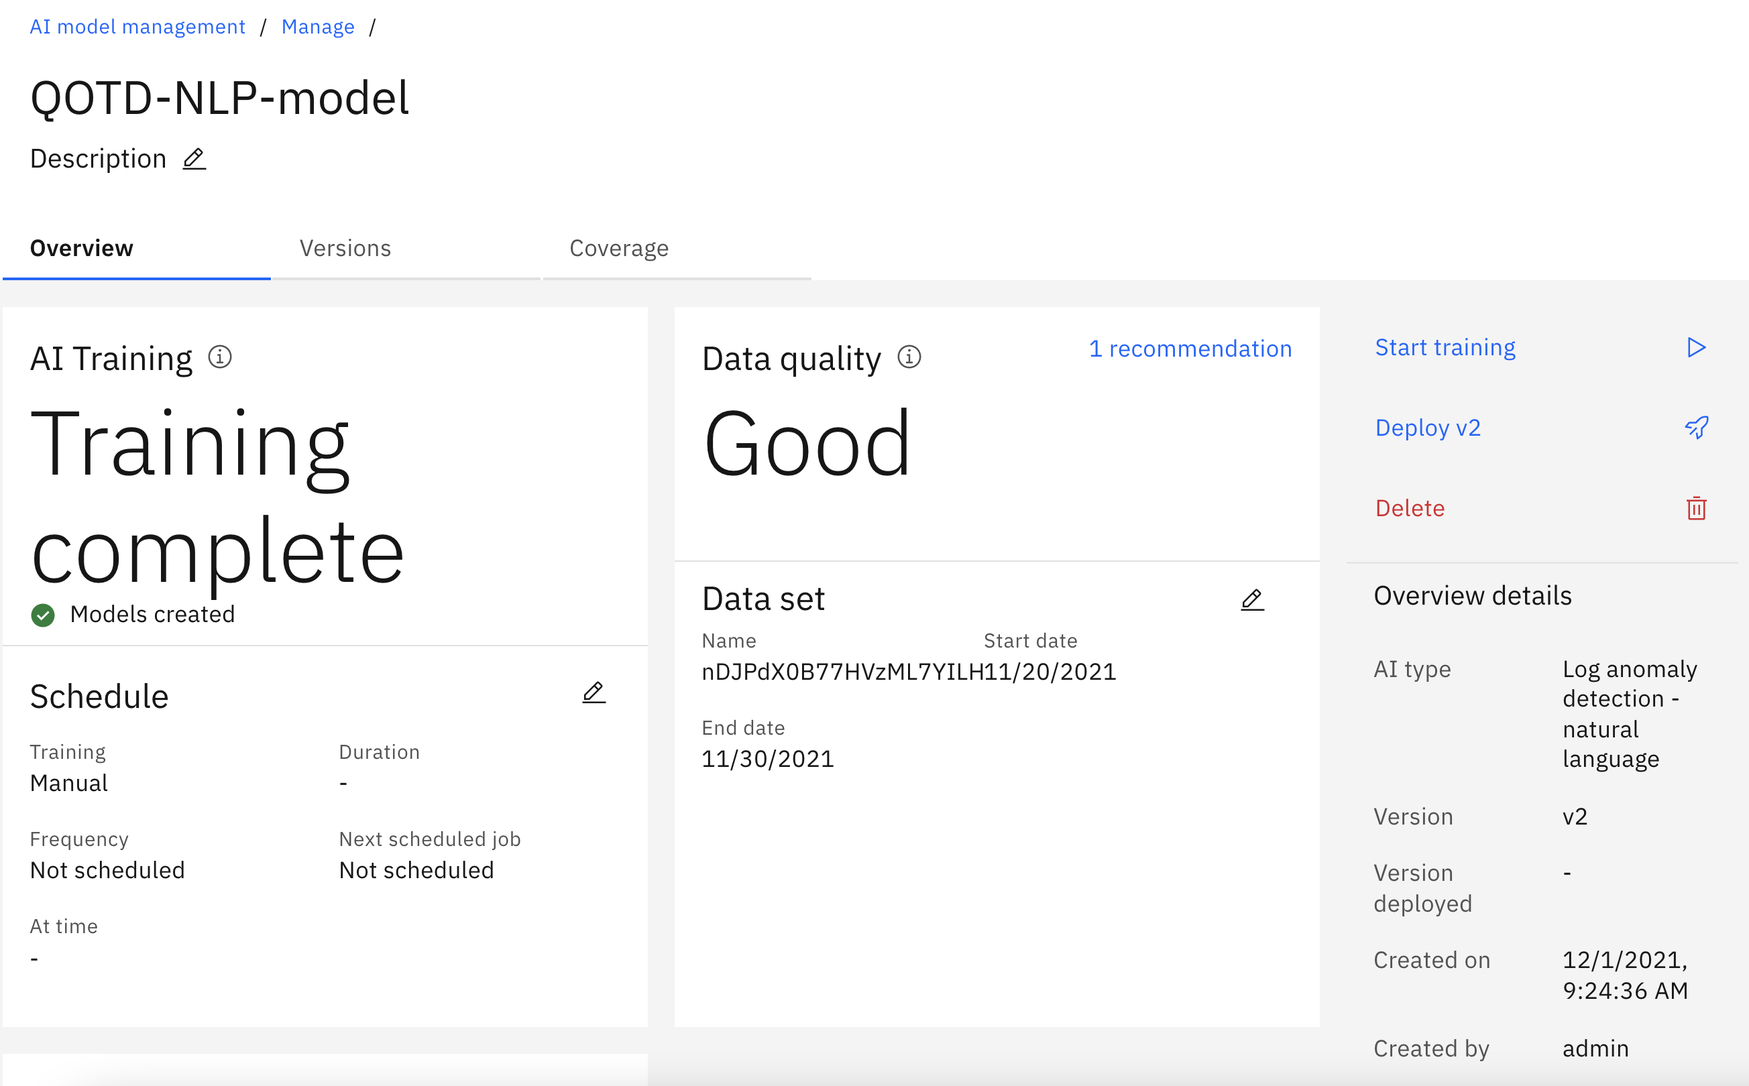
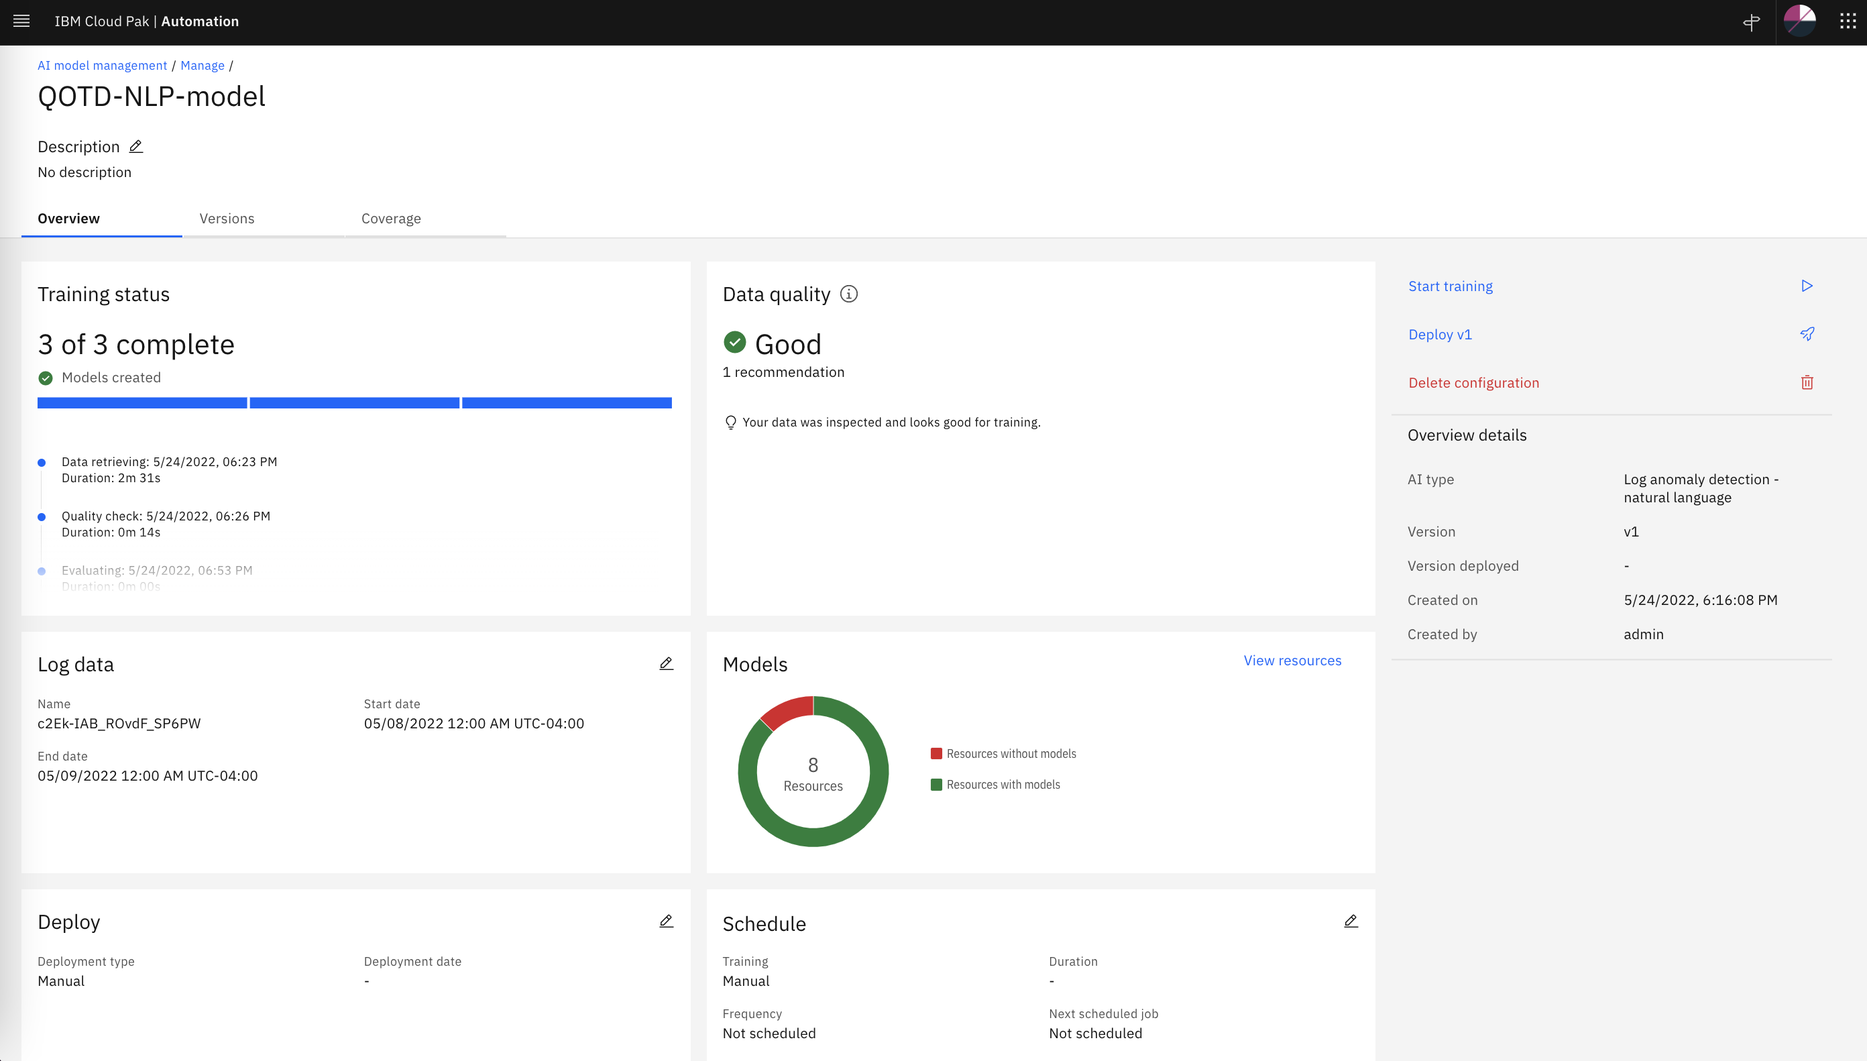
Deployed 1edadde with MkDocs version: 1.3.0

diff --git a/integration/index.html b/integration/index.html
@@ -91,11 +91,11 @@
               
                 <h1 id="configuring-data-sources">Configuring Data Sources</h1>
 <h2 id="connecting-to-the-cp4waiops-console">Connecting to the CP4WAIOps console</h2>
-<p>Lets start by connecting to the CP4WAIOps console. Get the URL and login credentials from the <em>Lab Parameters Table</em>. You will see the console home page as shown below. </p>
+<p>Lets start by connecting to the CP4WAIOps console. Use the URL and login credentials given by your Lab coordinator. You will see the console home page as shown below. </p>
 <p><img alt="Home Page" src="../images/home-page.png" title="Home Page" /></p>
 <hr />
 <h2 id="configure-the-efk-integration">Configure the EFK Integration</h2>
-<p>EFK is a variant of ELK (Elasticsearch, Logstash, and Kibana). EFK is a suite of tools combining Elasticsearch, Fluentd, and Kibana that functions as a log aggregation tool. To simplify the installation and configuration effort for installing the different components of the EFK stack on OpenShift, we leverage the <code>OpenShift Logging</code> library from OpenShift. OpenShift customers that prefer not to spend part of their budget on a commercial log aggregator such as Humio, Splunk, or LogDNA, more than likely use the <code>OpenShift Logging</code> library.</p>
+<p>EFK is a variant of ELK (Elasticsearch, Logstash, and Kibana). EFK is a suite of tools combining Elasticsearch, Fluentd, and Kibana that functions as a log aggregation tool. Note that Kibana is a data visualization and exploration tool used for log and time-series analytics, application monitoring, and operational intelligence use cases. Now, to simplify the installation and configuration effort for installing the different components of the EFK stack on OpenShift, we leverage the <code>OpenShift Logging</code> library from OpenShift. OpenShift customers that prefer not to spend part of their budget on a commercial log aggregator such as Humio, Splunk, or LogDNA, more than likely use the <code>OpenShift Logging</code> library. </p>
 <p>To have AI Manager collect logs from the EFK installation that leverages the <code>OpenShift Logging</code> library, you need to define an EFK integration. The lab will provide the values that you should use for defining the EFK integration.</p>
 <p>From the Home page, under <code>Overview</code> clik on <code>Data and tool connections</code> on the left side of the page. Click on the <code>Add connection</code> button on the top right. On the ELK card, select <code>Add connection</code>. Take a moment to read the connection overview on the right side slider, then click on <code>Connect</code>, as shown in the following screen.</p>
 <p><img alt="elk integration 1" src="../images/elk-integration-1.png" title="ELK integration 1" /></p>
@@ -126,7 +126,7 @@
 <p><code>Filters</code>: Don't change it.</p>
 </li>
 <li>
-<p><code>Time zone</code>: Don't change it.</p>
+<p><code>Time zone</code>: Select <code>GMT-4</code>.</p>
 </li>
 <li>
 <p><code>Kibana port</code>: Type <code>443</code>.</p>
@@ -176,14 +176,14 @@
 <p><img alt="elk integration 4" src="../images/elk-integration-4.png" title="ELK integration 4" /></p>
 <p><img alt="elk integration 5" src="../images/elk-integration-5.png" title="ELK integration 5" /></p>
 <p><img alt="elk integration 6" src="../images/elk-integration-6.png" title="ELK integration 6" /></p>
-<p>Finally, click on the <code>Done</code> button.  After some time, you will see the message <code>Connection completed. IBM Cloud Pak for Watson AIOps has successfully processed your request</code> and the ELK integration page will show the Data Flow Status as <code>Running</code> as shown below:</p>
+<p>Finally, click on the <code>Done</code> button.  After some time, you will see the message <code>Connection completed. IBM Cloud Pak for Watson AIOps has successfully processed your request</code>.  Click on the <code>ELK</code> Connection type and then the ELK integration page will show the <code>EFK for QOTD</code> integration you just defined showing the Data Flow Status as <code>Running</code> as shown below:</p>
 <p><img alt="elk integration 7" src="../images/elk-integration-7.png" title="ELK integration 7" /></p>
 <p>After around 15 minutes, it will stop pulling the data and the Data Flow Status will change to <code>Finished</code> as shown below. <strong>Don't wait. Move to the next step in the meantime.</strong></p>
 <p><img alt="elk integration 8" src="../images/elk-integration-8.png" title="ELK integration 8" /></p>
 <hr />
 <h2 id="configure-the-instana-integration">Configure the Instana Integration</h2>
-<p>The CP4WAIOps will consume topology information from Instana therefore we will configure the integration between the CP4WAIOps and Instana.</p>
-<p>Lets verify first that there is no topology data in the system. From the Home page, clik on <code>Resource management</code> under <code>Overview</code> on the left side of the page. On the Resource management page, make sure there are no Applications, Resource groups nor Resources defined, as shown below</p>
+<p>The CP4WAIOps will consume topology information from Instana therefore we will configure this integration.</p>
+<p>Lets verify first that there is no topology data in the system. From the navigator menu, go to the Home page again, clik on <code>Resource management</code> under <code>Overview</code> on the left side of the page. On the Resource management page, make sure there are no Applications, Resource groups nor Resources defined, as shown below</p>
 <p><img alt="instana integration 0" src="../images/instana-0.png" title="Instana integration 0" /></p>
 <p>Now, lets define the Instana integration. From the Home page, clik on <code>Data and tool connections</code> under <code>Overview</code> on the left side of the page. Click on the <code>Add connection</code> button on the top right. On the Instana card, select <code>Add connection</code>. Take a moment to read the connection overview on the right side slider, then click on <code>Connect</code>, as shown in the following screen.</p>
 <p><img alt="instana integration 1" src="../images/instana-1.png" title="Instana integration 1" /></p>
@@ -193,7 +193,7 @@
 <p><code>Name</code>: The display name of your connection, for example <code>Instana connection</code>.</p>
 </li>
 <li>
-<p><code>Description</code>: An optional description for the connection.</p>
+<p><code>Description</code>: An optional description for the connection. Leave it blank.</p>
 </li>
 <li>
 <p><code>Endpoint</code>: Get the URL for the Instana Endpoint from the <em>Lab Parameters Table</em>.</p>
@@ -212,7 +212,7 @@
 <p><code>Enable data flow</code>: Set this toggle button to on (green).</p>
 </li>
 <li>
-<p><code>Time window</code> (seconds): Leave as it is. This is the windowSize within the Instana API.</p>
+<p><code>Time window</code> (seconds): Leave as it is. This is the windowSize parameter within the Instana API.</p>
 </li>
 <li>
 <p><code>Connection Intervals</code> (seconds): Leave as it is. This is how frequently to run the job to collect topology.</p>
@@ -238,12 +238,12 @@
 <p>Now, lets verify that CP4WAIOps actually received topology data.</p>
 <p>From the Home page, clik on Resource management under Overview on the left side of the page. On the Resource management page, you will see a new application defined called <code>qotd</code> as shown below:</p>
 <p><img alt="Resource management" src="../images/resource-mgmt.png" title="Resource management" /></p>
-<p>Click on the application <code>qotd</code> and you will see the topology resources related to this application as shown in the picture below. Feel free to zoom-in to see details.</p>
+<p>Click on the application <code>qotd</code> and you will see the topology resources related to this application as shown in the picture below. Feel free to zoom-in to see details. Note that it will take 10-20 minutes to get a complete representation of all the topology entities and relationships.</p>
 <p><img alt="qotd Topology" src="../images/resource-topo.png" title="qotd Topology]" /></p>
 <hr />
 <h2 id="review-and-update-cp4waiops-policies">Review and Update CP4WAIOps Policies</h2>
 <p>Now, lets take a look at the automations page in CP4WAIOps. By creating automations, we can proactively set up actions and policies to detect and remediate events. </p>
-<p>From the Home page, clik on <code>Automations</code> under <code>Overview</code> on the left side of the page. In this page, we can manage <em>Policies</em>, <em>Runbooks</em> and <em>Actions</em> (we will see Stories later in the Inference section of the Lab)</p>
+<p>From the Home page, clik on <code>Automations</code> under <code>Overview</code> on the left side of the page. In this page, we can manage <em>Policies</em>, <em>Runbooks</em> and <em>Actions</em>.</p>
 <p>Under the <em>Policies</em> tab, we can see a list of system predefined policies that support a number of features in CP4WAIOps. We will review and enable a predefined policy that create stories:</p>
 <ul>
 <li>
@@ -253,8 +253,11 @@
 <p>Change the state of the <code>Default story creation policy for all alerts</code> policy from Disabled to Enabled by clicking on the State slider. We need to enable this policy so we can see stories being created later in the Inference section of the Lab.</p>
 </li>
 <li>
-<p>This Policy will basically create a new Story for every new Alert regardless of the severity of the Alert. Click on the policy name to see the policy details on the right of the page. </p>
+<p>This Policy will basically create a new Story for every new Alert regardless of the severity of the Alert. </p>
 </li>
+</ul>
+<p>Click on the policy name to see the policy details on the right side of the page. </p>
+<ul>
 <li>
 <p>Click on the <code>Journal</code> tab to see the updates done so far to this policy.</p>
 </li>

diff --git a/inference/index.html b/inference/index.html
@@ -95,19 +95,19 @@
 <p>We have defined an integration to a Log Aggregator (EFK) that received historical application logs for a "normal" day of operations of a sample application called <em>qotd</em>.</p>
 </li>
 <li>
-<p>We have defined an integration to Instana which is observing the environment where the sample <em>qotd</em> application is running and we have pulled every resource topology information related to this application into CP4WAIOps.</p>
+<p>We have defined an integration to Instana which is observing the environment where the sample <strong>qotd</strong> application is running and we have pulled every resource topology information related to this application into CP4WAIOps.</p>
 </li>
 <li>
 <p>We have enabled one CP4WAIOps policy to create Stories.</p>
 </li>
 <li>
-<p>We have created a log anomaly model by training on one day of "normal" log data from the <em>qotd</em> application. We have deployed this model to be ready for inference. </p>
+<p>We have created a log anomaly model by training on one day of "normal" log data from the <strong>qotd</strong> application. We have deployed this model so we can actually test it with real time log data.  </p>
 </li>
 </ul>
 <h2 id="start-log-anomaly-inference-on-real-time-logs">Start Log Anomaly Inference on Real-Time Logs</h2>
 <p>Now that our log anomaly trained model is successfully deployed, its ready to start doing log anomaly inference. That is, "scan" logs coming in real time from the sample application <em>qotd</em> and create alerts when the real time logs deviate from what is considered "normal" in the trained model. 
-The final important point here is that, during the Lab execution, we are injecting real time anomalies into the sample application qotd, for example we are shutting down API services, icreasing service responce latency, etc. This concept is similar to what the IT Ops team at Netflix call <a href="https://netflix.github.io/chaosmonkey/">Chaos Monkey</a>. These anomalies will be detected by the CP4WAIOps and you will see the new alerts and stories created.</p>
-<p>We are going to modify our integration with the log aggregator to start consuming real-time logs instead historical logs as we did previosuly.</p>
+The final important point here is that, during the Lab execution, we are injecting real time anomalies into the sample application qotd, for example we are shutting down API services, increasing service responce latency, etc. This concept is similar to what the IT Ops team at Netflix call <a href="https://netflix.github.io/chaosmonkey/">Chaos Monkey</a>. These anomalies will be detected by the CP4WAIOps and you will see the new alerts and stories created.</p>
+<p>We are going to modify our integration with the log aggregator to start consuming real-time logs instead historical logs as we did previously.</p>
 <ul>
 <li>
 <p>From the Home page, under <code>Overview</code> clik on <code>Data and tool connections</code> on the left side of the page. </p>
@@ -150,30 +150,52 @@ The final important point here is that, during the Lab execution, we are injecti
 <p>From the Home page, under <code>Overview</code> clik on <code>Stories and alerts</code> on the left side of the page. </p>
 </li>
 <li>
-<p>On the Stories tab, make sure you see one or more stories created. Confirm that the story has been recently created. If you don't see any stories, just wait a few minutes. As we mentioned before during the definition of the terms, from an IT Operations point of view we have <code>Events</code> that trigger <code>Alerts</code> that trigger the creation of stories<code>Stories</code>. </p>
+<p>On the Stories tab, make sure you see one or more stories created, as shown below. Confirm that the story has been recently created. If you don't see any stories, just wait a few minutes. As we mentioned before during the definition of the terms, from an IT Operations point of view we have <code>Events</code> that trigger <code>Alerts</code> that trigger the creation of stories<code>Stories</code>. </p>
+</li>
+</ul>
+<p><img alt="Inference" src="../images/aiops-log-anomaly-inference-1.png" /></p>
+<ul>
+<li><strong>Alerts tab:</strong> Click on the Alerts tab. Here you will see one or more alerts, as shown below:</li>
+</ul>
+<p><img alt="Inference" src="../images/aiops-log-anomaly-inference-2.png" /></p>
+<p>These are the Log Anomaly alerts that were created by the Log Anomaly model we just deployed. They were created because the real-time logs shown patterns that are not considered "normal" by the trained model. </p>
+<ul>
+<li>
+<p>Click on the first alert under the Summary column to explore the alert details on the right side of the page. </p>
+<ul>
+<li>
+<p>On the Alert details under Properties review the values of the different properties. </p>
 </li>
 <li>
-<p><strong>Alerts tab:</strong> Click on the Alerts tab. Here you will see one or more alerts. These are the Log Anomaly alerts that were created by the Log Anomaly model we just deployed. They were created because the real-time logs shown patterns that are not considered "normal" by the trained model. </p>
-<ul>
-<li>Click on the alert summary to explore the alert details on the right of the page. </li>
-<li>On the Alert details under Properties review the values of the different properties. </li>
-<li>Look at the value of the property <code>eventCount</code>, this is the number of events that were aggregated into a single Alert. </li>
+<p>Look at the value of the property <code>eventCount</code>, this is the number of events that were aggregated into a single Alert. </p>
+</li>
 </ul>
 </li>
 <li>
-<p><strong>Stories tab:</strong>  Click back on the Stories tab, these are the stories that were created based on the alerts that you just saw before. In a real production environment, a story can group and correlate different but related alerts into a single page. For example, lets imagine that the storage of a key application database goes down. In this scenario, we could have alerts from the database monitoring platformm, log anomaly alerts from the APIs that use the database and web page response alerts that shows database data. All these three alerts will be combined into a single story in order to help the IT Operations personnel find the root cause the the incident. </p>
+<p><strong>Stories tab:</strong>  Click back on the Stories tab, these are the stories that were created based on the alerts that you just saw before. In a real production environment, a story can group and correlate different but related alerts into a single story page. For example, lets imagine that the storage of a key application database goes down. In this scenario, we could have alerts from the database monitoring platformm, log anomaly alerts from the APIs that use the database and web page response alerts that shows database data. All these three alerts will be combined into a single story in order to help the IT Operations personnel find the root cause the the incident. </p>
 <ul>
-<li>Click on the story Description to look at the story details. </li>
-<li>On the left side, we see the Top alerts that triggered this story. These alerts are ranked by probable cause showing the top one as the most probable root cause of the overall incident.</li>
-<li>In the middle of the page, we see topology information that was provided by Instana with the problematic resource highlighted. </li>
+<li>Click on the story Description to look at the story details. You will see the story page as shown below:</li>
+</ul>
+</li>
+</ul>
+<p><img alt="Inference" src="../images/aiops-log-anomaly-inference-3.png" /></p>
+<ul>
+<li>
+<ul>
+<li>
+<p>On the left side, we see the Top alerts that triggered this story. These alerts are ranked by probable cause showing the top one as the most probable root cause of the overall incident.</p>
+</li>
+<li>
+<p>In the middle of the page, we see topology information that was provided by Instana with the problematic resource highlighted. </p>
+</li>
 <li>The top right side of the page shows the StoryID, the story owner (Unassigned) and the priority. </li>
-<li>The change story settings button on the top right allow us to change the priority, the status and assignee.  </li>
+<li>The <code>Change story settings</code> button on the top right allow us to change the priority, the status and assignee.  </li>
 <li>The Alerts tab shows only the alerts related to these particular story.</li>
-<li>The Topology tab shows the overall topology where this incident happen (NOTE that currently this tab is not showing any topology. The overall topology can be seen from Home -&gt; Resource management -&gt; qotd)</li>
+<li>The Topology tab shows the overall topology context where this incident happen (NOTE that currently this tab is not showing any data. The overall topology context can be seen from Home -&gt; Resource management -&gt; qotd)</li>
 </ul>
 </li>
 </ul>
-<p><strong>THIS IS THE END OF THE LAB</strong></p>
+<p><strong>CONGRATULATIONS, THIS IS THE END OF THE LAB</strong></p>
 <hr />
               
             </div>

diff --git a/log-anomaly/index.html b/log-anomaly/index.html
@@ -126,7 +126,7 @@
 <p>On the <code>AI algorithms</code> tab, on the <code>Log anomaly detection-natural language</code> tile, click <code>Configure</code>.</p>
 </li>
 </ul>
-<p><img alt="AIOps log anomaly training 1" src="../images/aiops-log-anomaly-training-1.png" /></p>
+<p><img alt="AIOps log anomaly training 1" src="../images/aiops-log-anomaly-training-1a.png" /></p>
 <ul>
 <li><strong>Getting started:</strong> Under Data and tool connections, check that at least one connection is listed down the page.</li>
 </ul>
@@ -190,26 +190,30 @@
 <p>After a few moments, the following response is displayed: <code>Training successfully started</code>.</p>
 </li>
 <li>
-<p>The AI Training tile displays the message: <code>Data retrieving. Training is now in progress.</code></p>
+<p>The AI Training tile displays various training status messages: such as <code>Queued</code>.</p>
 <p><img alt="AIOps log anomaly training 11" src="../images/aiops-log-anomaly-training-11.png" /></p>
 </li>
-<li></li>
 <li>
-<p><strong>Log Anomaly Training will typically take around 30 minutes for this amount of data. This a good time to get lunch and come back in 30 minutes :-) </strong></p>
+<p>You will see in the Models tile, how the wheel chart turns from red to green as diferent resources are added to the model. Its OK if the <code>anomaly</code> resource name fails to get a model. There are not enough log lines that have information about this resource. </p>
+<p><img alt="AIOps log anomaly training 11" src="../images/aiops-log-anomaly-training-11a.png" /></p>
 </li>
-<li></li>
-<li>
-<p>Once the training is complete, the AI Training tile displays the message: <code>Training complete</code>. At this point, AI models are created, with a specified data quality.</p>
-</li>
+</ul>
+<hr />
+<ul>
+<li><strong>Log Anomaly Training will typically take around 30 minutes for this amount of data. This a good time to step away and come back in 30 minutes. </strong></li>
+</ul>
+<hr />
+<ul>
+<li>Once the training is complete, the Training status tile displays the message: <code>3 of 3 complete</code>. At this point, the log anomaly models are created.</li>
 </ul>
 <p><img alt="AIOps log anomaly training 12" src="../images/aiops-log-anomaly-training-12.png" /></p>
+<p>Now the last step in the Log Anomaly Training section is to deploy the model. </p>
 <ul>
-<li>To deploy the model, click the algorithm configuration for whose model that you want to deploy. The overview page is displayed.</li>
+<li>Click on the Versions tab and confirm there is a model created with Version v1. Click on the 3 dots on the right and select <code>Deploy</code> as shown below.</li>
 </ul>
-<p>In the right sidebar, click <code>Deploy vX</code>, where X is the version number of the model that is generated, but not deployed.</p>
 <p><img alt="AIOps log anomaly training 13" src="../images/aiops-log-anomaly-training-13.png" /></p>
 <ul>
-<li>Once the model is deployed, you can check the status of the model under the <code>Versions</code> tab.</li>
+<li>Once the model is deployed, you willsee the Status changed to <code>Deployed</code> as shown below.</li>
 </ul>
 <p><img alt="AIOps log anomaly training 14" src="../images/aiops-log-anomaly-training-14.png" /></p>
 <hr />

diff --git a/index.html b/index.html
@@ -159,5 +159,5 @@ The Lab call these as <em>Lab Parameters Table</em>. Make sure you copy the full
 
 <!--
 MkDocs version : 1.3.0
-Build Date UTC : 2022-05-23 23:28:58.883506+00:00
+Build Date UTC : 2022-05-24 23:47:42.663596+00:00
 -->
